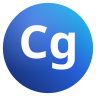
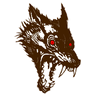
4.2.4 : icône tête de loup, écran de démarrage avec numéro de version

diff --git a/tools/make_branding.py b/tools/make_branding.py
@@ -1,17 +1,23 @@
 #!/usr/bin/env python3
 """
-ChopGimp — génère l'identité visuelle (création originale, monogramme « Cg ») :
+ChopGimp — génère l'identité visuelle (tête de loup, 4.2.4 ; source :
+branding/source/loup.png, loup brun détouré de blanc sur fond transparent) :
 
   branding/chopgimp.svg                 icône de l'application (texte vectorisé)
   branding/png/chopgimp-<taille>.png    icône aux tailles hicolor
   branding/chopgimp-symbolic.svg        version monochrome (thème d'icônes)
   branding/logo-128.png                 logo de la fenêtre « À propos »
-  branding/splash.png                   écran de démarrage (1591×1080)
+  branding/splash.png                   écran de démarrage (1591×1080), avec
+                                        le numéro de VERSION
+
+Lancé par « make manifest » : l'écran de démarrage suit chaque version.
 
 Usage : make_branding.py   (nécessite pycairo + PyGObject Pango/PangoCairo)
 """
+import io
 import math
 import os
+import random
 
 import cairo
 import gi
@@ -21,11 +27,13 @@ from gi.repository import Pango, PangoCairo
 
 ROOT = os.path.dirname(os.path.dirname(os.path.abspath(__file__)))
 OUT = os.path.join(ROOT, "branding")
+WOLF = os.path.join(OUT, "source", "loup.png")
+VERSION = open(os.path.join(ROOT, "VERSION")).read().strip()
+# Yeux du loup dans loup.png (606×782), pour la lueur rouge de l'écran
+EYES = ((333, 343, 30), (477, 357, 20))
+RED = (0.99, 0.0, 0.01)
 os.makedirs(os.path.join(OUT, "png"), exist_ok=True)
 
-NAVY = (0.08, 0.15, 0.38)       # #142661
-BLUE = (0.15, 0.38, 0.86)       # #2661DB
-CYAN = (0.13, 0.83, 0.93)       # #22D3EE
 FONT = "Noto Sans Bold"
 
 
@@ -38,95 +46,144 @@ def text_layout(cr, text, size, font=FONT):
     return layout
 
 
-def draw_badge(cr, cx, cy, r, mono=False):
-    """Pastille ronde à dégradé + « Cg » blanc (en tracés)."""
-    cr.save()
-    cr.arc(cx, cy, r, 0, 2 * math.pi)
-    if mono:
-        cr.set_source_rgb(0.745, 0.745, 0.745)
-    else:
-        g = cairo.LinearGradient(cx - r, cy + r, cx + r, cy - r)
-        g.add_color_stop_rgb(0.0, *NAVY)
-        g.add_color_stop_rgb(0.55, *BLUE)
-        g.add_color_stop_rgb(1.0, *CYAN)
-        cr.set_source(g)
-    cr.fill()
-    if not mono:
-        # léger reflet en haut
-        hl = cairo.RadialGradient(cx - r * 0.35, cy - r * 0.55, 0, cx - r * 0.35, cy - r * 0.55, r * 1.1)
-        hl.add_color_stop_rgba(0, 1, 1, 1, 0.22)
-        hl.add_color_stop_rgba(1, 1, 1, 1, 0.0)
-        cr.arc(cx, cy, r, 0, 2 * math.pi)
-        cr.set_source(hl)
-        cr.fill()
-    # « Cg » vectorisé
-    layout = text_layout(cr, "Cg", r * 1.05)
-    ink, logical = layout.get_pixel_extents()
-    cr.move_to(cx - ink.x - ink.width / 2.0, cy - ink.y - ink.height / 2.0 - r * 0.02)
-    PangoCairo.layout_path(cr, layout)
-    if mono:
-        # lettres « percées » dans la pastille (rendu symbolique)
-        cr.set_operator(cairo.OPERATOR_CLEAR)
-    else:
-        cr.set_source_rgb(1, 1, 1)
-    cr.fill()
-    cr.restore()
+def wolf_surface(height):
+    """Loup redimensionné (PIL, Lanczos) en surface cairo ARGB."""
+    from PIL import Image
+    im = Image.open(WOLF).convert("RGBA")
+    im = im.crop(im.getbbox())
+    w = max(1, round(im.width * height / im.height))
+    im = im.resize((w, height), Image.LANCZOS)
+    buf = io.BytesIO()
+    im.save(buf, "PNG")
+    buf.seek(0)
+    return cairo.ImageSurface.create_from_png(buf), im
+
+
+def draw_wolf_square(cr, size, pad=0.02):
+    """Loup centré dans un carré, proportions gardées."""
+    from PIL import Image
+    src = Image.open(WOLF).convert("RGBA")
+    src = src.crop(src.getbbox())
+    inner = size * (1 - 2 * pad)
+    scale = min(inner / src.width, inner / src.height)
+    h = max(1, round(src.height * scale))
+    surf, im = wolf_surface(h)
+    cr.set_source_surface(surf, (size - im.width) / 2.0, (size - im.height) / 2.0)
+    cr.paint()
 
 
 def icon_svg(path, size=256, mono=False):
     surf = cairo.SVGSurface(path, size, size)
     cr = cairo.Context(surf)
     if mono:
-        # symbolique : anneau + lettres pleines (GTK force la couleur de remplissage)
-        r = size * 0.47
-        cr.arc(size / 2, size / 2, r, 0, 2 * math.pi)
-        cr.arc_negative(size / 2, size / 2, r - size * 0.07, 2 * math.pi, 0)
+        # symbolique : silhouette du loup en rectangles pleins (GTK recolore
+        # le remplissage), tirée de la couche alpha sur une grille 32×32
+        from PIL import Image
+        im = Image.open(WOLF).convert("RGBA")
+        im = im.crop(im.getbbox())
+        n = 32
+        sc = min(n / im.width, n / im.height)
+        gw, gh = max(1, round(im.width * sc)), max(1, round(im.height * sc))
+        a = im.split()[3].resize((gw, gh), Image.LANCZOS)
+        cell = size / float(n)
+        ox, oy = (n - gw) / 2.0, (n - gh) / 2.0
+        for y in range(gh):
+            x = 0
+            while x < gw:
+                if a.getpixel((x, y)) >= 128:
+                    x0 = x
+                    while x < gw and a.getpixel((x, y)) >= 128:
+                        x += 1
+                    cr.rectangle((ox + x0) * cell, (oy + y) * cell,
+                                 (x - x0) * cell, cell)
+                else:
+                    x += 1
         cr.set_source_rgb(0.745, 0.745, 0.745)
         cr.fill()
-        layout = text_layout(cr, "Cg", size * 0.5)
-        ink, _ = layout.get_pixel_extents()
-        cr.move_to(size / 2 - ink.x - ink.width / 2.0, size / 2 - ink.y - ink.height / 2.0)
-        PangoCairo.layout_path(cr, layout)
-        cr.fill()
     else:
-        draw_badge(cr, size / 2, size / 2, size * 0.47)
+        draw_wolf_square(cr, size)
     surf.finish()
 
 
 def icon_png(path, size):
     surf = cairo.ImageSurface(cairo.FORMAT_ARGB32, size, size)
     cr = cairo.Context(surf)
-    draw_badge(cr, size / 2, size / 2, size * 0.47)
+    draw_wolf_square(cr, size)
     surf.write_to_png(path)
 
 
 def splash(path, w=1591, h=1080):
+    """Fond noir-brun à grain, loup en grand à gauche aux yeux lumineux,
+    titre, sous-titre et version à droite ; le bas reste libre pour le
+    texte de progression de GIMP."""
     surf = cairo.ImageSurface(cairo.FORMAT_ARGB32, w, h)
     cr = cairo.Context(surf)
-    bg = cairo.LinearGradient(0, 0, w, h)
-    bg.add_color_stop_rgb(0, 0.09, 0.09, 0.10)
-    bg.add_color_stop_rgb(1, 0.15, 0.16, 0.20)
+    bg = cairo.RadialGradient(w * 0.30, h * 0.45, 0, w * 0.30, h * 0.45, w * 0.85)
+    bg.add_color_stop_rgb(0.0, 0.17, 0.09, 0.04)
+    bg.add_color_stop_rgb(0.5, 0.08, 0.05, 0.035)
+    bg.add_color_stop_rgb(1.0, 0.035, 0.03, 0.03)
     cr.set_source(bg)
     cr.paint()
-    # halo
-    halo = cairo.RadialGradient(w * 0.32, h * 0.45, 0, w * 0.32, h * 0.45, h * 0.55)
-    halo.add_color_stop_rgba(0, *BLUE, 0.35)
-    halo.add_color_stop_rgba(1, *BLUE, 0.0)
-    cr.set_source(halo)
+    # grain : petits points clairs et sombres, déterministe
+    rnd = random.Random(73)
+    for _ in range(26000):
+        x, y = rnd.random() * w, rnd.random() * h
+        v = rnd.random()
+        cr.set_source_rgba(1, 0.9, 0.8, 0.035) if v > 0.5 else cr.set_source_rgba(0, 0, 0, 0.12)
+        cr.rectangle(x, y, 1.4, 1.4)
+        cr.fill()
+    # loup
+    wh = int(h * 0.80)
+    wsurf, wim = wolf_surface(wh)
+    from PIL import Image
+    src = Image.open(WOLF).convert("RGBA")
+    bx0, by0, bx1, by1 = src.getbbox()
+    k = wh / float(by1 - by0)
+    wx = w * 0.28 - wim.width / 2.0
+    wy = h * 0.055
+    # ombre portée douce sous le loup
+    cr.save()
+    cr.set_source_rgba(0, 0, 0, 0.55)
+    cr.translate(wx + 14, wy + 18)
+    cr.mask_surface(wsurf, 0, 0)
+    cr.restore()
+    cr.set_source_surface(wsurf, wx, wy)
     cr.paint()
-    draw_badge(cr, w * 0.32, h * 0.45, h * 0.20)
+    # lueur rouge des yeux
+    cr.save()
+    cr.set_operator(cairo.OPERATOR_ADD)
+    for ex, ey, r in EYES:
+        cx, cy = wx + (ex - bx0) * k, wy + (ey - by0) * k
+        g = cairo.RadialGradient(cx, cy, 0, cx, cy, r * k * 2.6)
+        g.add_color_stop_rgba(0.0, 1.0, 0.15, 0.05, 0.55)
+        g.add_color_stop_rgba(0.35, 0.8, 0.05, 0.0, 0.22)
+        g.add_color_stop_rgba(1.0, 0.5, 0.0, 0.0, 0.0)
+        cr.set_source(g)
+        cr.arc(cx, cy, r * k * 2.6, 0, 2 * math.pi)
+        cr.fill()
+    cr.restore()
     # titre
-    cr.set_source_rgb(1, 1, 1)
-    lay = text_layout(cr, "ChopGimp", h * 0.11)
-    cr.move_to(w * 0.47, h * 0.33)
+    tx = w * 0.53
+    cr.set_source_rgb(0.98, 0.95, 0.90)
+    lay = text_layout(cr, "ChopGimp", h * 0.12)
+    cr.move_to(tx, h * 0.30)
     PangoCairo.show_layout(cr, lay)
-    cr.set_source_rgba(1, 1, 1, 0.75)
-    lay = text_layout(cr, "Retouche d'images professionnelle", h * 0.035, "Noto Sans")
-    cr.move_to(w * 0.475, h * 0.48)
+    ink, logical = lay.get_pixel_extents()
+    # filet rouge sous le titre
+    cr.set_source_rgb(*RED)
+    cr.rectangle(tx + ink.x + 4, h * 0.30 + ink.y + ink.height + h * 0.025, h * 0.16, h * 0.007)
+    cr.fill()
+    cr.set_source_rgba(0.98, 0.95, 0.90, 0.80)
+    lay = text_layout(cr, "Retouche d'images professionnelle", h * 0.036, "Noto Sans")
+    cr.move_to(tx + 4, h * 0.505)
     PangoCairo.show_layout(cr, lay)
-    cr.set_source_rgba(1, 1, 1, 0.45)
+    cr.set_source_rgb(0.93, 0.20, 0.15)
+    lay = text_layout(cr, "Version " + VERSION, h * 0.030, FONT)
+    cr.move_to(tx + 5, h * 0.575)
+    PangoCairo.show_layout(cr, lay)
+    cr.set_source_rgba(0.98, 0.95, 0.90, 0.45)
     lay = text_layout(cr, "Basé sur GIMP 3.2.8 — logiciel libre (GPLv3)", h * 0.022, "Noto Sans")
-    cr.move_to(w * 0.477, h * 0.545)
+    cr.move_to(tx + 5, h * 0.635)
     PangoCairo.show_layout(cr, lay)
     surf.write_to_png(path)
 

diff --git a/README.md b/README.md
@@ -13,7 +13,7 @@ fichier ChopGimp s'ouvre dans un GIMP standard, qui y voit les pixels rendus.
 - **Linux** : Flatpak `org.cen_na.ChopGimp`, installé à côté d'un GIMP existant,
   avec une configuration séparée (`~/.var/app/org.cen_na.ChopGimp/`).
 - **Windows** : installateur Inno Setup ou version portable (zip).
-- **Version actuelle** : 4.2.3 (bouton Enregistrer en quittant, boutons Enregistrer / Ne pas enregistrer / Annuler), sur la 4.2.2 (menus sans décalage au survol, groupes d'outils plus réactifs) et la 4.2.1 (coller un SVG d'Inkscape ou d'Illustrator en objets, rapport de plantage enregistré, patchs regroupés en 23 thèmes), sur la 4.2.0 : CMJN façon Photoshop (Image > Mode > CMJN, profils ECI, conversion de profil, Exporter pour l'imprimeur en PDF/X ou TIFF CMJN) et finitions vectorielles (« mixte » dans Aspect / Contour, copier-coller d'objets, Lasso direct) (voir [`VERSION`](VERSION)).
+- **Version actuelle** : 4.2.4 (nouvelle icône tête de loup, écran de démarrage avec numéro de version), sur la 4.2.3 (bouton Enregistrer en quittant, boutons Enregistrer / Ne pas enregistrer / Annuler), sur la 4.2.2 (menus sans décalage au survol, groupes d'outils plus réactifs) et la 4.2.1 (coller un SVG d'Inkscape ou d'Illustrator en objets, rapport de plantage enregistré, patchs regroupés en 23 thèmes), sur la 4.2.0 : CMJN façon Photoshop (Image > Mode > CMJN, profils ECI, conversion de profil, Exporter pour l'imprimeur en PDF/X ou TIFF CMJN) et finitions vectorielles (« mixte » dans Aspect / Contour, copier-coller d'objets, Lasso direct) (voir [`VERSION`](VERSION)).
   Le journal détaillé est dans [`docs/SUIVI.md`](docs/SUIVI.md).
 - **Prise en main** : le [guide de l'utilisateur](docs/GUIDE.md), rangé par tâche
   (vectoriser, objets, exports, raccourcis).
@@ -343,7 +343,7 @@ Les options de compilation (`make build LTO=… PGO=… GIMP_O=…`) passent par
 | 3.99 | Lots 1 à 5 compilés, corrigés et vérifiés (272 tests, banc de performance, banc graphique) ; version intermédiaire avant la 4.0 (3.99.0) |
 | 4.0 | Version finale : caches d'objets 4× plus légers, compilation LTO + PGO, recette complète au banc graphique, avertissements éliminés, thèmes lisibles, traductions des exports, interrupteurs documentés, guide de l'utilisateur (4.0.0) ; CI Windows corrigée (4.0.1) ; liste des calques jamais cachée sous son en-tête (4.0.2) |
 | 4.1 | Allègement : 14 interrupteurs retirés avec l'ancien code, code mort et doublons supprimés (`chopgimp-vutil.c`), smoke_test factorisé ; regroupement des patchs proposé (`docs/dev/PLAN-PATCHS-4.1.md`) (4.1.0); une seule sélection d'objets (V, A, Plume, Forme, panneaux, couleurs PP/AP, Ctrl+A / Ctrl+Maj+A, « mixte »), PSD CMJN à profil d'entrée sans plantage (4.1.1) |
-| 4.2 | CMJN façon Photoshop : profils ECI (ISO Coated v2 fourni, PSO v3 téléchargés en un clic), Image > Mode > CMJN, Convertir en profil CMJN, fenêtre « profil incorporé différent » (Garder / Convertir / Ignorer, toujours), Exporter pour l'imprimeur (PDF/X-4 vectoriel, PDF/X-1a, TIFF CMJN, fond perdu, traits de coupe, plans de travail), profils invalides refusés sans plantage ; « mixte » dans Aspect / Contour, copier-coller d'objets vectoriels, calque vectorisé sélectionné, outil Lasso direct (4.2.0) ; SVG d'Inkscape / Illustrator collé en objets, barre d'état du Lasso direct, rapport de plantage dans `crash-reports/`, patchs regroupés en 23 thèmes (4.2.1) ; menus sans décalage au survol, groupes d'outils ouverts en 120 ms, au clic sur le triangle ou en glissant (4.2.2) ; bouton Enregistrer dans Quitter / Fermer tout, libellés Enregistrer / Ne pas enregistrer / Annuler, Entrée = Enregistrer (4.2.3) |
+| 4.2 | CMJN façon Photoshop : profils ECI (ISO Coated v2 fourni, PSO v3 téléchargés en un clic), Image > Mode > CMJN, Convertir en profil CMJN, fenêtre « profil incorporé différent » (Garder / Convertir / Ignorer, toujours), Exporter pour l'imprimeur (PDF/X-4 vectoriel, PDF/X-1a, TIFF CMJN, fond perdu, traits de coupe, plans de travail), profils invalides refusés sans plantage ; « mixte » dans Aspect / Contour, copier-coller d'objets vectoriels, calque vectorisé sélectionné, outil Lasso direct (4.2.0) ; SVG d'Inkscape / Illustrator collé en objets, barre d'état du Lasso direct, rapport de plantage dans `crash-reports/`, patchs regroupés en 23 thèmes (4.2.1) ; menus sans décalage au survol, groupes d'outils ouverts en 120 ms, au clic sur le triangle ou en glissant (4.2.2) ; bouton Enregistrer dans Quitter / Fermer tout, libellés Enregistrer / Ne pas enregistrer / Annuler, Entrée = Enregistrer (4.2.3) ; icône tête de loup, écran de démarrage sombre avec version (4.2.4) |
 
 Le détail de chaque version (ce qui est fait, vérifié, et ce qui reste) se trouve
 dans [`docs/SUIVI.md`](docs/SUIVI.md). Le plan du chantier vectoriel est dans

diff --git a/docs/SUIVI.md b/docs/SUIVI.md
@@ -1720,3 +1720,9 @@ Patchs 0170 à 0173 (nouveaux commits, aucun patch réécrit).
 - **Quitter / Fermer tout** (`quit-dialog.c`, thème T21) : nouveau bouton **Enregistrer**. Il enregistre les images une à une ; une image sans fichier XCF (nouvelle ou importée) ouvre « Enregistrer sous ». Quand il ne reste rien à enregistrer, ChopGimp quitte (ou ferme tout) de lui-même, comme avant. Annuler un « Enregistrer sous » arrête la chaîne ; un nouveau clic la reprend. La disquette par image reste.
 - **Libellés façon Photoshop**, ici et à la fermeture d'une image (`gimpdisplayshell-close.c`, T21) : **Enregistrer**, **Ne pas enregistrer** (au lieu de « Abandonner les modifications »), **Annuler** ; **Entrée = Enregistrer** (avant : Annuler). Ctrl+D garde « Ne pas enregistrer ». Traduction dans `po/fr.po` (T22).
 
+## 4.2.4 — Icône tête de loup ; écran de démarrage avec la version
+
+- **Icône** : la tête de loup fournie par l'utilisateur (`branding/source/loup.png`, liseré blanc, fond transparent) remplace le monogramme « Cg » partout : icônes hicolor 16 à 512 px, SVG, logo « À propos », logo du thème d'icônes, `.ico` Windows (refait par `windows_branding.py` en CI). Icône symbolique : silhouette du loup.
+- **Écran de démarrage** : fond noir-brun à grain, loup en grand à gauche, yeux rouges lumineux, titre, filet rouge, sous-titre, **« Version x.y.z »** et la base GIMP. Le bas reste libre pour le texte de progression.
+- `tools/make_branding.py` est lancé par `make manifest` : l'écran suit le fichier `VERSION` à chaque livraison.
+
